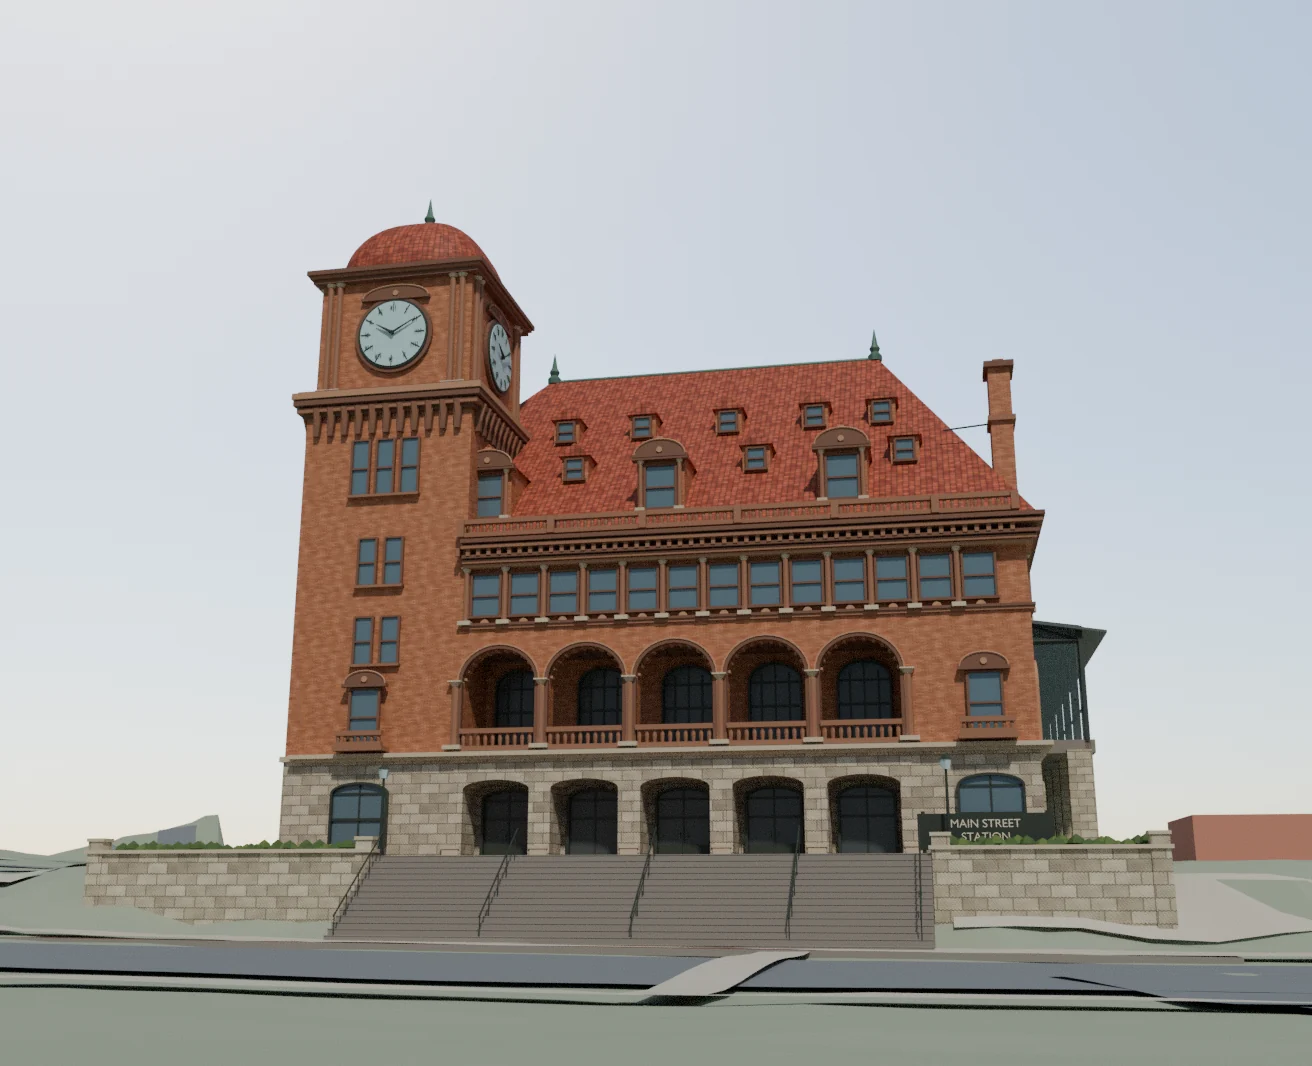
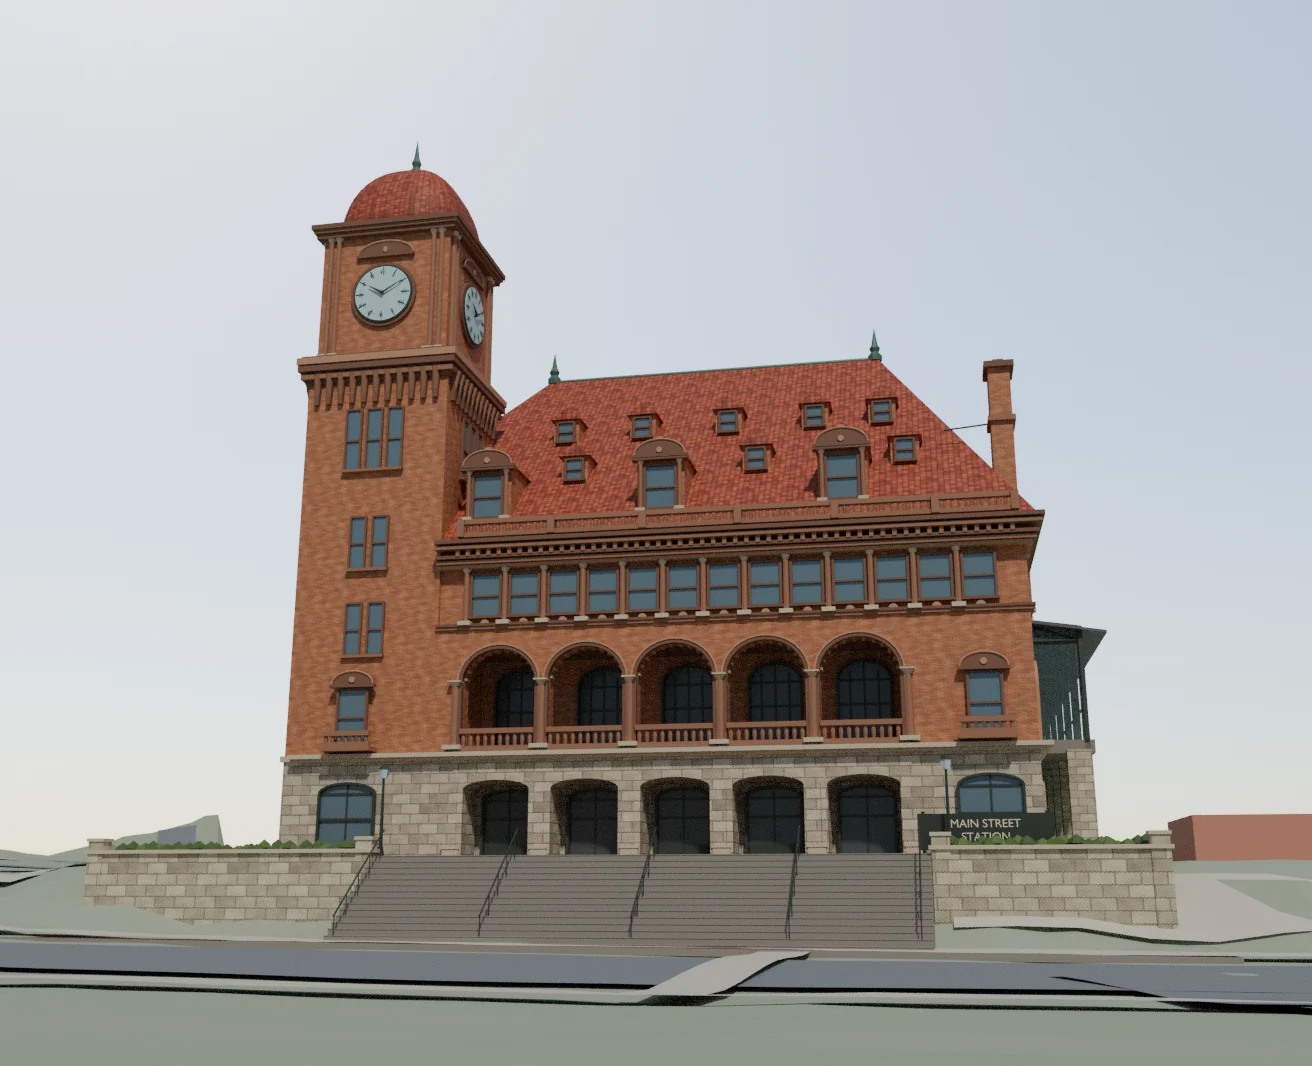
Refine the Main Street Station clock tower proportions

Changed region(s): [[0.2188, 0.1548, 0.4062, 0.8049]]

diff --git a/tools/station_headhouse.py b/tools/station_headhouse.py
@@ -22,6 +22,16 @@ BAY = (ARCADE[-1] - ARCADE[0]) / (len(ARCADE) - 1)
 ARCADE_LEFT = ARCADE[0] - BAY / 2
 ARCADE_RIGHT = ARCADE[-1] + BAY / 2
 STAIR_LEFT, STAIR_RIGHT = 5.95, 25.49
+TOWER_CENTER_X, TOWER_CENTER_Y = 2.99, 3.84
+TOWER_BASE_RADIUS = 3.86
+TOWER_SHAFT_RADIUS = 3.83
+TOWER_BASE_COURSE = 4.23
+TOWER_PLAN_SCALE = 0.85
+TOWER_HEIGHT_SCALE = 1.105
+TOWER_WEST = TOWER_CENTER_X - TOWER_BASE_RADIUS
+TOWER_SOUTH = TOWER_CENTER_Y - TOWER_BASE_RADIUS
+TOWER_SHAFT_EAST = TOWER_WEST + (TOWER_BASE_RADIUS + TOWER_SHAFT_RADIUS) * TOWER_PLAN_SCALE
+TOWER_SHAFT_NORTH = TOWER_SOUTH + (TOWER_BASE_RADIUS + TOWER_SHAFT_RADIUS) * TOWER_PLAN_SCALE
 
 
 def station_frame(legacy):
@@ -260,7 +270,8 @@ def headhouse(group):
         group.box(x - 0.34, x + 0.34, -0.17, 0.16, 0.20, 0.67, "highlight")
         group.box(x - 0.39, x + 0.39, -0.20, 0.13, 0.61, 0.73, "highlight")
     loggia(group)
-    for x in (2.72, 27.72):
+    tower_bay = TOWER_WEST + (2.72 - TOWER_WEST) * TOWER_PLAN_SCALE
+    for x in (tower_bay, 27.72):
         facade = -0.14 if x > 10 else -0.30
         rectangular_sash(group, x, facade - 0.10, 4.82, 1.28, 2.28)
         pediment(group, x, facade - 0.16, 7.30, 1.82, 0.54)
@@ -284,8 +295,9 @@ def headhouse(group):
         if z < 5:
             group.box(-projection, WIDTH + projection, -projection, DEPTH + projection, z, z + height, surface)
         else:
-            group.box(6.77, WIDTH + projection, -projection, DEPTH + projection, z, z + height, surface)
-            group.box(-projection, 6.77, 7.85, DEPTH + projection, z, z + height, surface)
+            joint = TOWER_SHAFT_EAST - 0.05
+            group.box(joint, WIDTH + projection, -projection, DEPTH + projection, z, z + height, surface)
+            group.box(-projection, joint, TOWER_SHAFT_NORTH - 0.05, DEPTH + projection, z, z + height, surface)
     for x in (6.52 + k * 0.45 for k in range(51)):
         group.box(x, x + 0.17, -0.55, -0.11, 12.52, 12.87, "trim")
     rail(group, 6.66, WIDTH - 0.26, -0.33, 13.35, 0.66)
@@ -376,8 +388,10 @@ def clock_dial(group, front, center):
 
 
 def clock_tower(group):
-    x, y = 2.99, 3.84
-    for z0, z1, radius, surface in ((-0.45, 4.23, 3.86, "stone"), (4.23, 20.22, 3.83, "brick"),
+    x, y = TOWER_CENTER_X, TOWER_CENTER_Y
+    start_tower = len(group.vertices)
+    for z0, z1, radius, surface in ((-0.45, TOWER_BASE_COURSE, TOWER_BASE_RADIUS, "stone"),
+                                     (TOWER_BASE_COURSE, 20.22, TOWER_SHAFT_RADIUS, "brick"),
                                      (20.22, 26.25, 3.55, "brick")):
         group.box(x - radius, x + radius, y - radius, y + radius, z0, z1, surface)
     for z, height, radius, surface in (
@@ -400,7 +414,13 @@ def clock_tower(group):
             group.box(centers[0] - 0.50, centers[-1] + 0.50, -4.10, -3.79, z - 0.11, z, "trim")
             for dx in centers:
                 rectangular_sash(group, dx, -4.00, z, 0.81, height)
-        clock_dial(group, -3.57, 23.04)
+        dial_height = 23.04
+        dial_start = len(group.vertices)
+        clock_dial(group, -3.57, dial_height)
+        # The dial moves with the shaft but its face remains circular.
+        for i in range(dial_start, len(group.vertices)):
+            px, py, pz = group.vertices[i]
+            group.vertices[i] = (px, py, dial_height + (pz - dial_height) * TOWER_PLAN_SCALE / TOWER_HEIGHT_SCALE)
         pediment(group, 0, -3.69, 24.84, 3.08, 0.57)
         group.transform(Matrix.Translation((x, y, 0)) @ Matrix.Rotation(side * pi / 2, 4, "Z"), start)
 
@@ -413,6 +433,16 @@ def clock_tower(group):
                       for a in (i * tau / 44 for i in range(44))])
     group.loft(rings, "clay")
     finial(group, x, y, 29.77, 1.81)
+
+    # Keep the exterior's southwest base corner and stone-to-brick course tied
+    # to the headhouse. Stretch above that course, leaving entry heights fixed.
+    for i in range(start_tower, len(group.vertices)):
+        px, py, pz = group.vertices[i]
+        if pz > TOWER_BASE_COURSE:
+            pz = TOWER_BASE_COURSE + (pz - TOWER_BASE_COURSE) * TOWER_HEIGHT_SCALE
+        group.vertices[i] = (TOWER_WEST + (px - TOWER_WEST) * TOWER_PLAN_SCALE,
+                             TOWER_SOUTH + (py - TOWER_SOUTH) * TOWER_PLAN_SCALE,
+                             pz)
 
 
 def forecourt(group):

diff --git a/tools/verify_station_detail.py b/tools/verify_station_detail.py
@@ -10,7 +10,9 @@ from mathutils import Vector
 from mathutils.bvhtree import BVHTree
 
 sys.path.insert(0, str(Path(__file__).resolve().parent))
-from station_headhouse import ARCADE, BAY, EAVE, STAIR_LEFT, STAIR_RIGHT, WIDTH
+from station_headhouse import (
+    ARCADE, BAY, EAVE, STAIR_LEFT, STAIR_RIGHT, TOWER_SOUTH, TOWER_WEST, WIDTH,
+)
 
 
 def require(condition, message):
@@ -55,14 +57,35 @@ def verify(glb):
         step = stair_tree.ray_cast(Vector((x, -9.32, 2.0)), Vector((0, 0, -1)))[0]
         require(step is not None and -2.20 < step.z < -1.80, "Missing wide entrance step.")
     tower = collection.objects["MSS Clock tower"]
-    roof = BVHTree.FromObject(tower, depsgraph).ray_cast(Vector((4.0, 4.4, 33)), Vector((0, 0, -1)))
-    require(roof[0] is not None and roof[0].z > 28
+    tower_tree = BVHTree.FromObject(tower, depsgraph)
+    peak = max(vertex.co.z for vertex in tower.data.vertices)
+    west = tower_tree.ray_cast(Vector((-3.0, 3.1, 6.5)), Vector((1, 0, 0)))[0]
+    east = tower_tree.ray_cast(Vector((7.0, 3.1, 6.5)), Vector((-1, 0, 0)))[0]
+    base_front = tower_tree.ray_cast(Vector((3.0, -2.0, 0.5)), Vector((0, 1, 0)))[0]
+    base_west = tower_tree.ray_cast(Vector((-3.0, 3.1, 0.5)), Vector((1, 0, 0)))[0]
+    require(west is not None and east is not None and 6.40 < east.x - west.x < 6.65 and 34.3 < peak < 34.6,
+            "The tower must have the revised shaft width and finial height.")
+    require(base_front is not None and base_west is not None and abs(base_front.y - TOWER_SOUTH) < 0.01
+            and abs(base_west.x - TOWER_WEST) < 0.01,
+            "The tower's southwest foundation tie-in moved.")
+    dial = [
+        tower.data.vertices[index].co for polygon in tower.data.polygons
+        if tower.data.materials[polygon.material_index].name == "MSS Opal blue clock glass"
+        for index in polygon.vertices if tower.data.vertices[index].co.y < 1.0
+    ]
+    require(bool(dial), "The south clock dial is missing.")
+    diameters = [max(vertex[axis] for vertex in dial) - min(vertex[axis] for vertex in dial) for axis in (0, 2)]
+    require(abs(diameters[0] - diameters[1]) < 0.015, "The tower adjustment distorted the clock dial.")
+    roof = tower_tree.ray_cast(Vector((3.6, 3.95, 35)), Vector((0, 0, -1)))
+    require(roof[0] is not None and roof[0].z > 30
             and tower.data.materials[tower.data.polygons[roof[2]].material_index].name == "MSS Red clay roof tile",
             "Expected a clay-tiled dome over the tower.")
     roof_tree = BVHTree.FromObject(collection.objects["MSS Red clay hip and dormers"], depsgraph)
     eave = roof_tree.ray_cast(Vector((3.0, -2.0, EAVE + 0.02)), Vector((0, 1, 0)), 2.0)[0]
     require(eave is None, "The headhouse roof protrudes across the face of the clock tower.")
-    print("PASS: Recessed arcades, continuous 3 m loggia, wide stairs, and a clay dome above an unobstructed tower.")
+    print("PASS: Recessed arcades, continuous 3 m loggia, wide stairs, and an unobstructed clay dome.")
+    print(f"PASS: Tower shaft is {east.x - west.x:.2f} m wide and the finial reaches {peak:.2f} m above local zero.")
+    print("PASS: The resized tower retains a circular clock dial.")
 
     data = read_glb(glb)
     record = json.loads(glb.with_suffix(".json").read_text(encoding="utf-8"))

diff --git a/DEV_STATE.md b/DEV_STATE.md
@@ -57,6 +57,8 @@
 - `20261119T123054501148Z-5026db92` · S1-07 · **PASS** · 2026-11-19T12:30:54+00:00 → 2026-11-19T12:30:57+00:00 · [run evidence](reports/runs/20261119T123054501148Z-5026db92.json)
 - `20261119T123349317631Z-7fe591ca` · S1-07 · **PASS** · 2026-11-19T12:33:49+00:00 → 2026-11-19T12:33:58+00:00 · [run evidence](reports/runs/20261119T123349317631Z-7fe591ca.json)
 - `20261119T123533862509Z-d92bc39b` · S1-07 · **PASS** · 2026-11-19T12:35:33+00:00 → 2026-11-19T12:35:44+00:00 · [run evidence](reports/runs/20261119T123533862509Z-d92bc39b.json)
+- `20261119T124638090059Z-92fe029c` · S1-07 · **PASS** · 2026-11-19T12:46:38+00:00 → 2026-11-19T12:46:45+00:00 · [run evidence](reports/runs/20261119T124638090059Z-92fe029c.json)
+- `20261119T124834037629Z-ff7b7d46` · S1-07 · **PASS** · 2026-11-19T12:48:34+00:00 → 2026-11-19T12:48:40+00:00 · [run evidence](reports/runs/20261119T124834037629Z-ff7b7d46.json)
 <!-- richmond-run-history:end -->
 
 ## Civic pivot
@@ -140,6 +142,7 @@
 ## S1-07 · Main Street Station street detail
 
 - **Built** the continuous coffered upper loggia and lowered the entrance vaults to flatter arches, widened the stairs, and revised the paired tower windows, corbels, blue clock dials, clay dome, dormers and chimney. The rebuilt shed has translucent panels over steel trusses and roof monitors.
+- **Proportions** narrowed the tower shaft by 15% to 6.51 m and raised the finial from 31.58 m to 34.45 m above local zero. Preserved the southwest foundation tie-in and adjusted the adjoining cornices.
 - **Verification** street, entrance and rail-side views cover the photo-visible elevations. Blender verifies the open passage and wide stair geometry, the clay dome, shared placement, embedded maps and translucent glazing in the GLB. The uploaded photos guide original geometry and surfaces. The road and neighboring buildings remain blockouts.
 - **Next** check the actual I-95 and rail deck heights, dress the immediate approach, and set up collision and distance LODs in the target Unreal project.
 

diff --git a/docs/Pilot_Main_Street_Station.md b/docs/Pilot_Main_Street_Station.md
@@ -16,6 +16,8 @@ The archived FBX uses east, north and up relative to the original vehicle start.
 
 The preview anchors the clock-tower base to the current DEM. The detailed headhouse follows the archived building frontage and uses a placement matrix equivalent to the Blender scene's saved position, rotation and scale. The documented overlap applies to the audited footprint outlines. The render path checks the Blender-imported extents against the published local frame, verifies that both exports use the same terrain and footprint hashes, and removes the duplicate mass.
 
+The tower's draft shaft is 6.51 m wide, 15% narrower than the preceding mesh. The finial is 34.45 m above the model's local zero, up from 31.58 m. The southwest foundation corner and the height of the stone-to-brick course are fixed. The headhouse cornices meet the revised shaft and the clock dials stay circular. These are model dimensions chosen for the visual proportions in the reference photos.
+
 ## Build the preview
 
 First build the [combined mesh](Pilot_Mesh_Preview.md) from the same checkout. Put the audited `Richmond_Unreal_First_Drive.zip` in `inputs/`.
